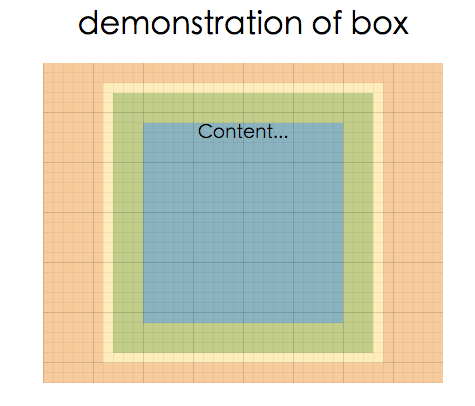
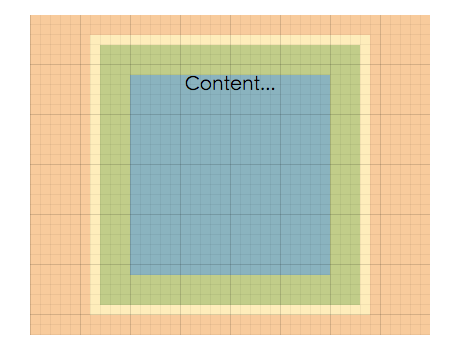
add media query logic and small.css

diff --git a/index.html b/index.html
@@ -3,7 +3,11 @@
 <head>
   <meta charset="UTF-8">
   <title></title>
-  <link rel="stylesheet" href="./css/style.css">
+  <!-- for responsive web page -->
+  <meta name="viewport" content="width=device-width, initial-scale=1">
+  <link href='https://fonts.googleapis.com/css?family=Passion+One' rel='stylesheet' type='text/css'>
+  <link rel="stylesheet" media="(min-width: 680px)" href="./css/style.css">
+  <link rel="stylesheet" media="(max-width: 679px)" href="./css/small.css">
 </head>
 <body>
   <div class="wrapper">
@@ -22,9 +26,7 @@
     </header>
 
     <article class="main-story">
-      <div class="main-story">
         <img src="./images/big.png" alt="main article" />
-      </div>
     </article>
 
     <article class="feature-story">
@@ -41,13 +43,11 @@
       <div class="sub-story">
         <img src="http://placehold.it/250x200" alt="my work No.2" />
         <p class="work-title">Portfolio 2</p>
-        <p class="work-link"><a href="#">link to my work</a></p>
       </div> <!-- class sub story -->
 
       <div class="sub-story">
         <img src="http://placehold.it/250x200" alt="my work No.3" />
         <p class="work-title">Portfolio 2</p>
-        <p class="work-link"><a href="#">link to my work</a></p>
       </div>
 
     </article>

diff --git a/css/small.css b/css/small.css
@@ -1,0 +1,60 @@
+body {
+  padding: 0;
+  margin: 0;
+  font-size: 80%;
+}
+.header {
+  text-align: center;
+  border-bottom: 4px solid #cccccc;
+  border-top: 6px solid #cccccc;
+  padding-top: 0;
+}
+.logo img {
+  width: 80px;
+  height: 80px;
+  border-radius: 50%;
+  margin-top: 3px;
+}
+
+#my-name {
+  margin-bottom: 2px;
+}
+
+#my-profession {
+  margin: 0px;
+}
+
+.main-story {
+  text-align: center;
+  /* border-bottom: 3px solid #cccccc; */
+  padding-bottom: 10px;
+}
+
+.main-story img {
+  width: 100%;
+}
+
+.feature-story {
+  text-align: center;
+}
+
+.feature-story img {
+  width: 100%;
+  border: 1px inset #cccccc;
+  box-sizing: border-box;
+}
+
+.feature-title {
+  text-align: center;
+}
+
+.sub-story {
+  width: 50%;
+  margin: 0 auto;
+  display: flex;
+  flex-direction: column-reverse;
+}
+
+.work-title {
+  margin-bottom: 0;
+}

diff --git a/css/style.css b/css/style.css
@@ -10,7 +10,8 @@ body {
 }
 .logo, .my-info {
   float: left;
-  /* outline: 1px solid lightsalmon; */
+  font-family: 'Passion One', cursive, sans-serif;
+  font-weight: ;
 }
 .logo {
   width: 30%;
